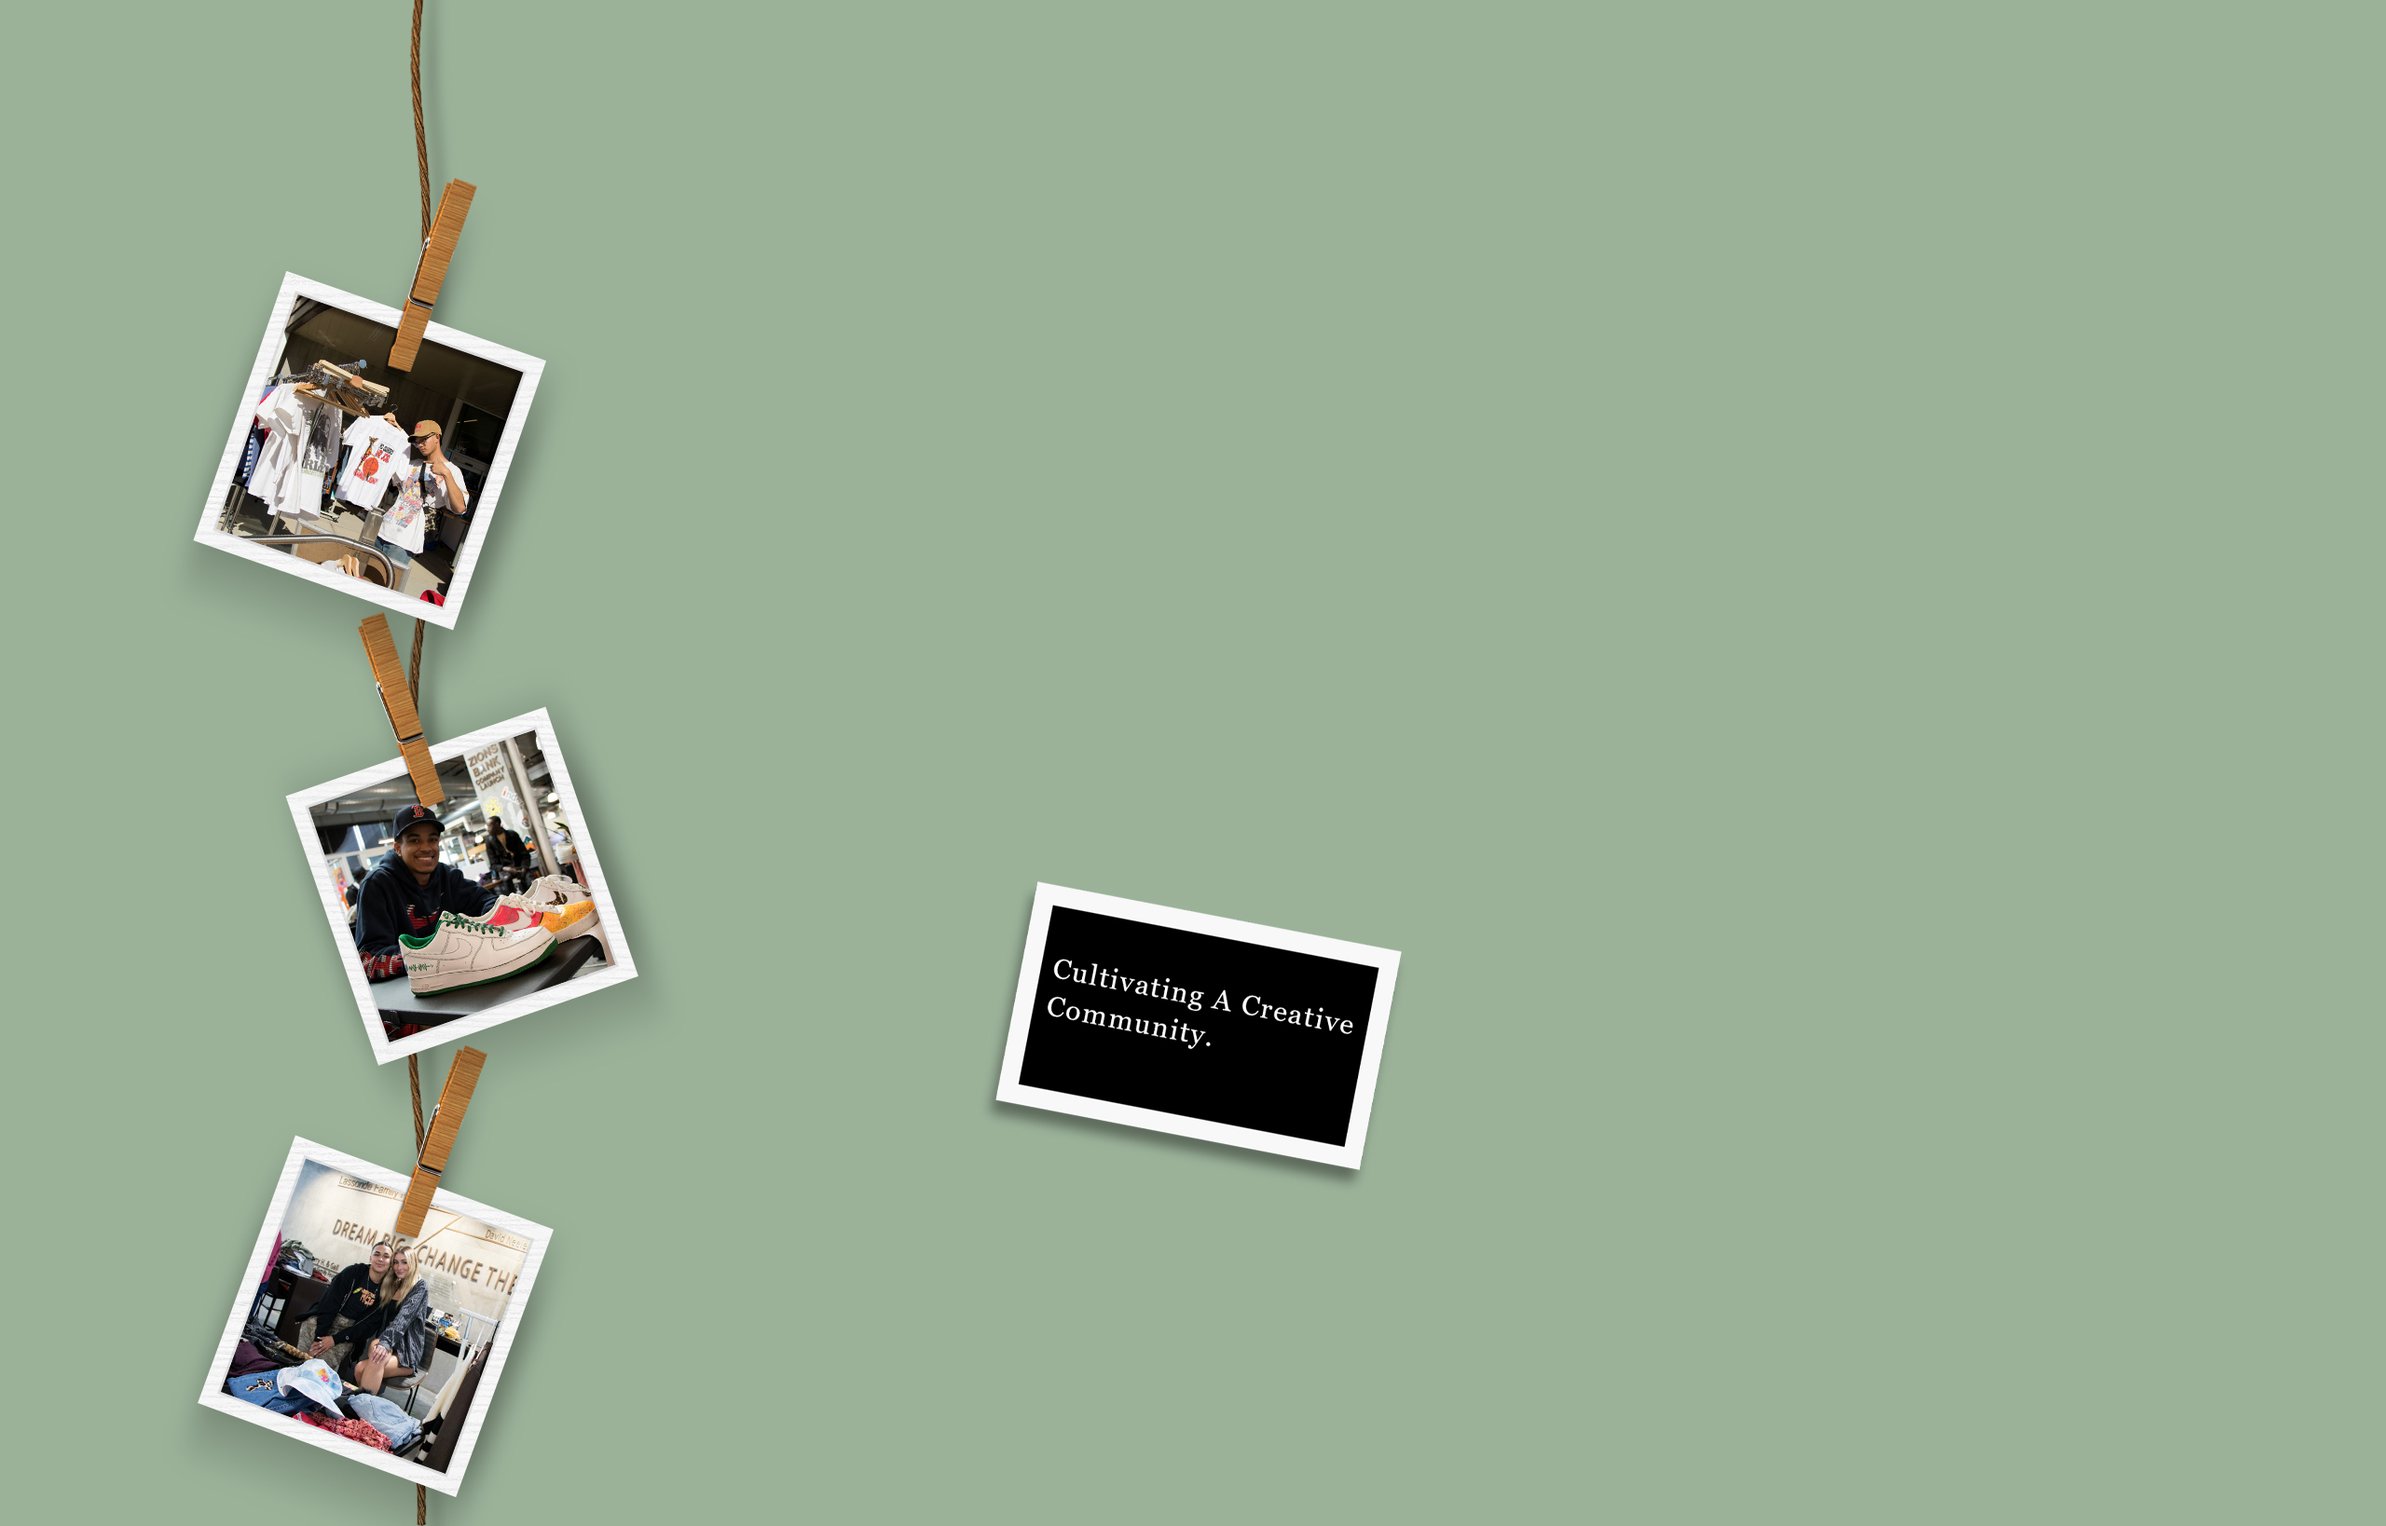
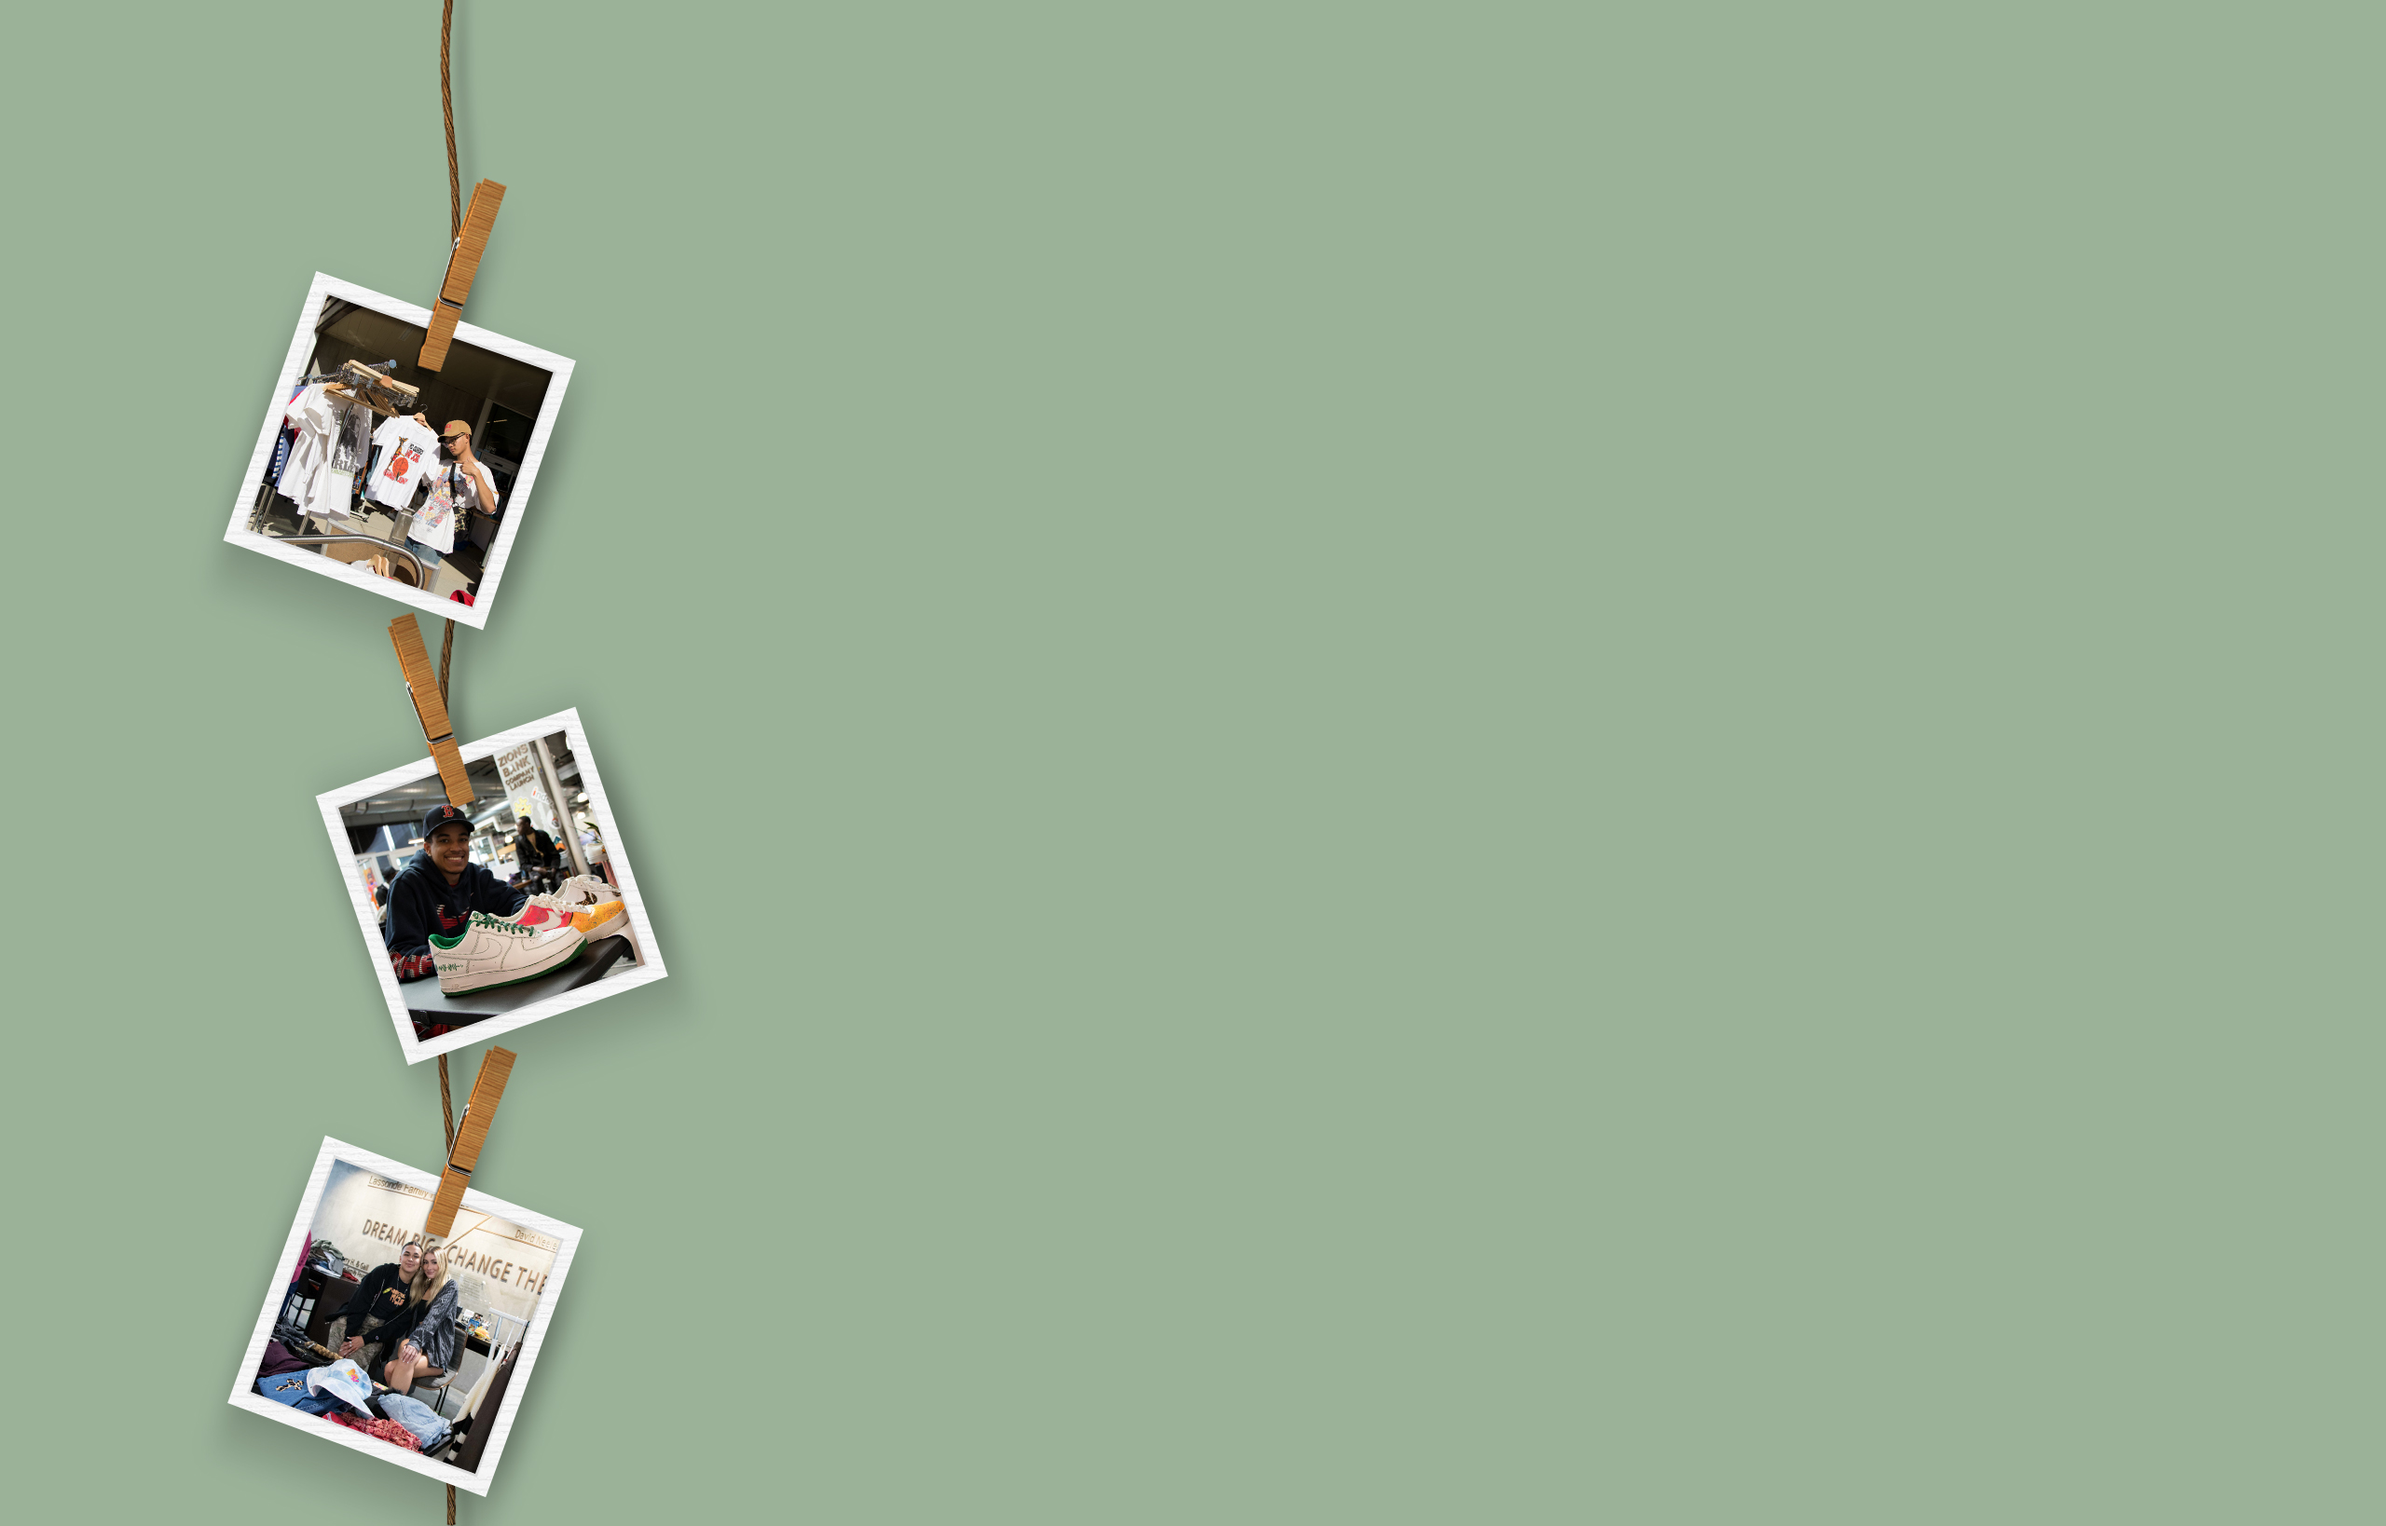
update code

Changed region(s): [[0.0625, 0.0, 0.2812, 1.0], [0.4062, 0.5604, 0.5938, 0.7784]]

diff --git a/_site/css/styles.css b/_site/css/styles.css
@@ -441,7 +441,7 @@ img {
   position: absolute;
   width: 80%;    
   left: 50%;
-  top: 35%;
+  top: 45%;
   transform: translate(-50%, -50%);   
   -webkit-transform: translate(-50%, -50%);
   -moz-transform: translate(-50%, -50%);
@@ -586,7 +586,7 @@ img {
   }
 
   .hero-section .container img{
-    width: 80%;
+    width: 70vmin;
   }
 }
 

diff --git a/css/styles.css b/css/styles.css
@@ -441,7 +441,7 @@ img {
   position: absolute;
   width: 80%;    
   left: 50%;
-  top: 35%;
+  top: 45%;
   transform: translate(-50%, -50%);   
   -webkit-transform: translate(-50%, -50%);
   -moz-transform: translate(-50%, -50%);
@@ -586,7 +586,7 @@ img {
   }
 
   .hero-section .container img{
-    width: 80%;
+    width: 70vmin;
   }
 }
 
